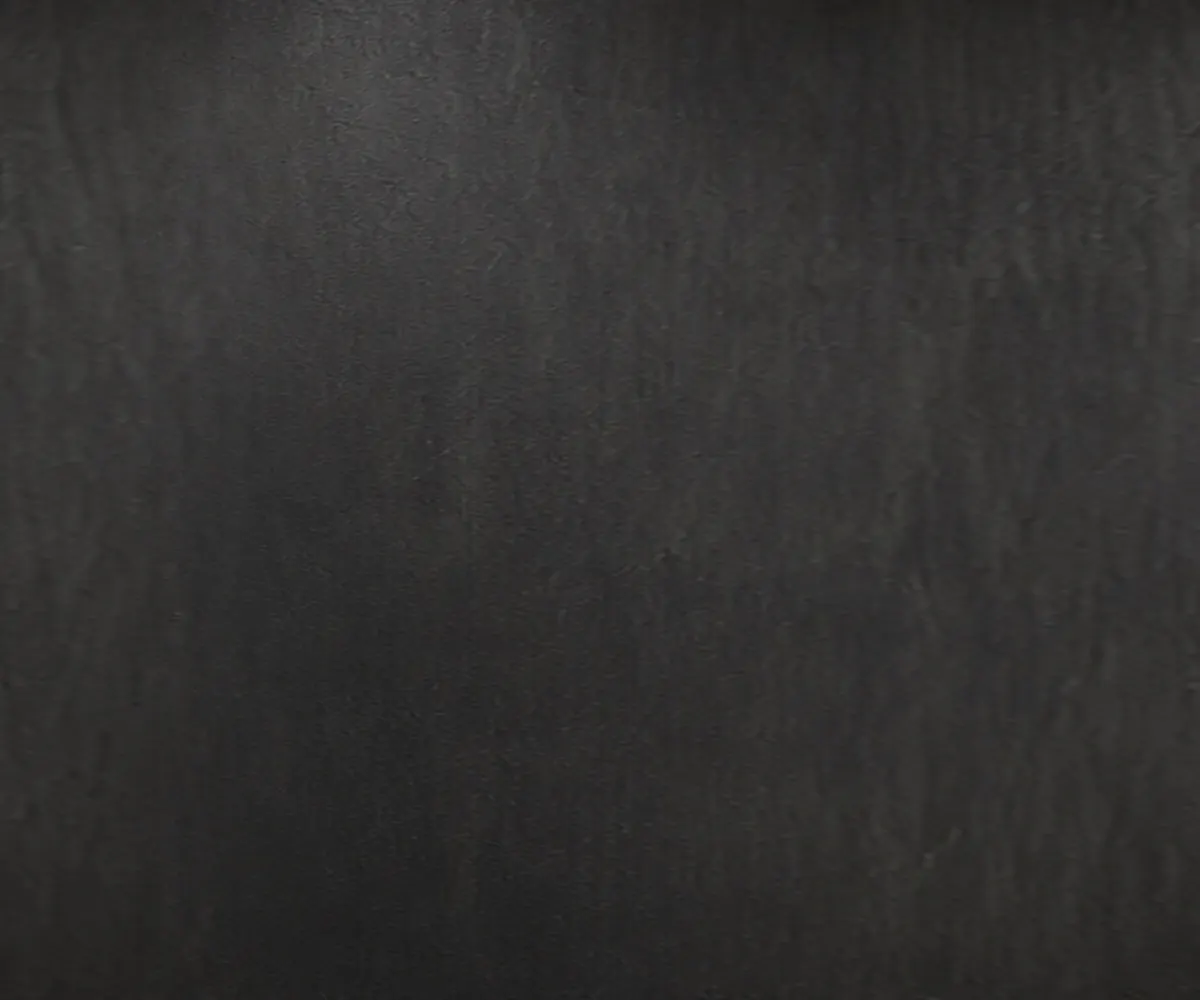
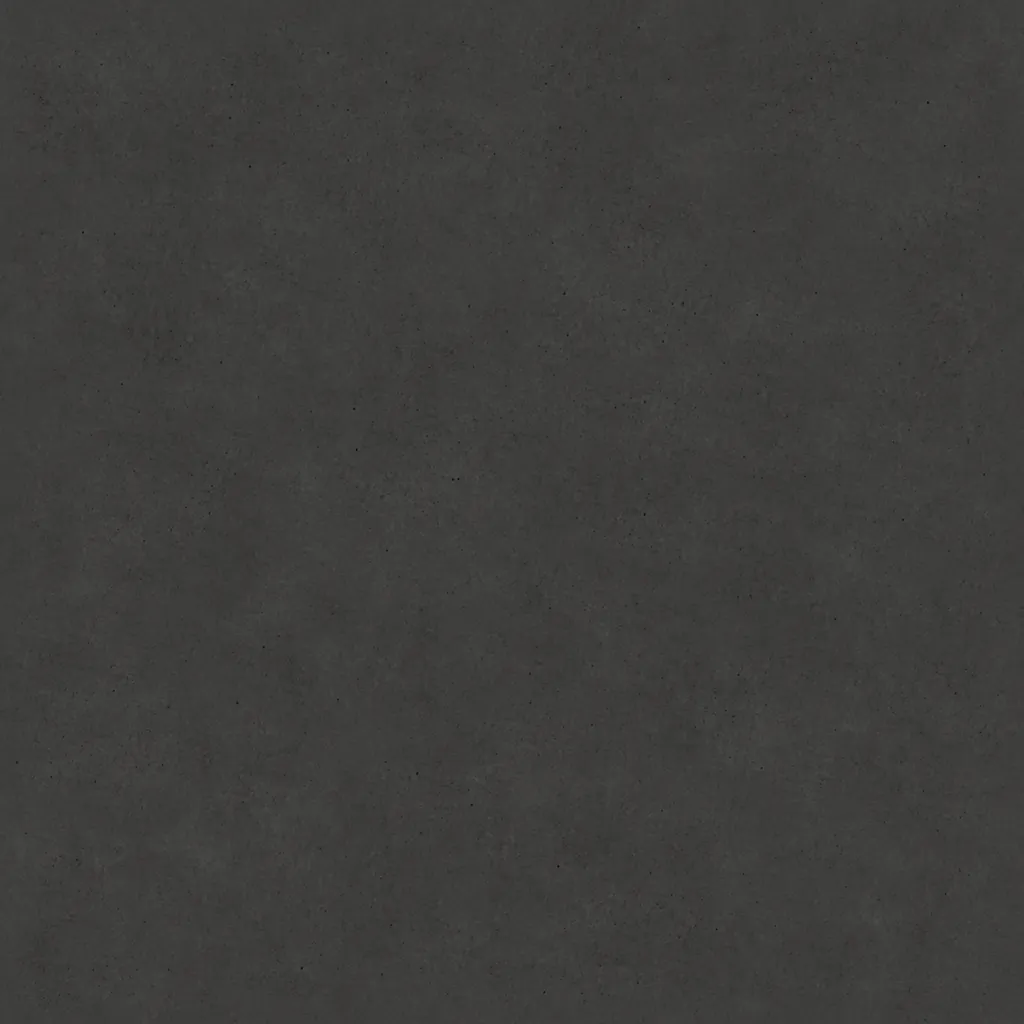
Lenses Code: parede de concreto nova com focos de luz
Claude-Session: https://claude.ai/code/session_01PbqP6xGjMeTk9rpKBFDBKy

diff --git a/lensescode/index.html b/lensescode/index.html
@@ -61,14 +61,14 @@ img,video{display:block;max-width:100%}
 .palco{position:sticky;top:0;height:100vh;height:100svh;overflow:hidden;perspective:var(--persp,900px);perspective-origin:50% 46%;background:radial-gradient(120% 80% at 50% 45%,#1d1c22 0%,var(--grafite) 70%)}
 .mundo{position:absolute;left:50%;top:50%;width:0;height:0;transform-style:preserve-3d;will-change:transform}
 .mundo>*{position:absolute;transform-style:preserve-3d;backface-visibility:hidden}
-.parede{left:calc(var(--prof) / -2);top:calc(var(--alt) / -2);width:var(--prof);height:var(--alt);background:linear-gradient(180deg,rgba(0,0,0,.05),rgba(0,0,0,.35)),url(cena/parede.webp) 0 0 / auto 100% repeat-x #1b1b1c}
+.parede{left:calc(var(--prof) / -2);top:calc(var(--alt) / -2);width:var(--prof);height:var(--alt);background:radial-gradient(130px 62% at 50% 0%,rgba(246,243,238,.13),transparent) 0 0 / 1500px 100% repeat-x,linear-gradient(180deg,rgba(0,0,0,0),rgba(0,0,0,.38)),url(cena/parede.webp) 0 0 / 900px 900px repeat #1b1b1c}
 .parede.esq{transform:translate3d(calc(var(--larg) / -2),0,calc(var(--prof) / -2)) rotateY(90deg)}
 .parede.dir{transform:translate3d(calc(var(--larg) / 2),0,calc(var(--prof) / -2)) rotateY(-90deg)}
 .chao,.teto{left:calc(var(--larg) / -2);top:calc(var(--prof) / -2);width:var(--larg);height:var(--prof)}
 .chao{transform:translate3d(0,calc(var(--alt) / 2),calc(var(--prof) / -2)) rotateX(90deg);background:linear-gradient(180deg,rgba(10,10,12,.25),rgba(10,10,12,.62) 70%,rgba(10,10,12,.75)),url(cena/piso.webp) 50% 0 / var(--placa) var(--placa) repeat #2a2a2a}
 .chao::after{content:"";position:absolute;inset:0;background:linear-gradient(180deg,rgba(168,141,255,.16),rgba(246,243,238,.06) 6%,transparent 22%),radial-gradient(40% 8% at 50% 0%,rgba(246,243,238,.12),transparent);pointer-events:none}
-.teto{transform:translate3d(0,calc(var(--alt) / -2),calc(var(--prof) / -2)) rotateX(-90deg);background:linear-gradient(rgba(0,0,0,.55),rgba(0,0,0,.55)),url(cena/parede.webp) 0 0 / 1400px auto repeat #111}
-.fundo{left:calc(var(--larg) / -2);top:calc(var(--alt) / -2);width:var(--larg);height:var(--alt);background:linear-gradient(rgba(255,255,255,.1),rgba(0,0,0,.15)),url(cena/parede.webp) 50% 0 / auto 100% repeat-x #2b2b2c;transform:translateZ(calc(var(--prof) * -1))}
+.teto{transform:translate3d(0,calc(var(--alt) / -2),calc(var(--prof) / -2)) rotateX(-90deg);background:linear-gradient(rgba(0,0,0,.55),rgba(0,0,0,.55)),url(cena/parede.webp) 0 0 / 900px 900px repeat #111}
+.fundo{left:calc(var(--larg) / -2);top:calc(var(--alt) / -2);width:var(--larg);height:var(--alt);background:linear-gradient(rgba(255,255,255,.1),rgba(0,0,0,.15)),url(cena/parede.webp) 50% 0 / 900px 900px repeat #2b2b2c;transform:translateZ(calc(var(--prof) * -1))}
 /* a porta clássica: moldura parada, folha que abre, luz violeta atrás */
 .porta{width:var(--pw);height:var(--ph);left:calc(var(--pw) / -2);top:calc(var(--ph) / -2);transform:translate3d(0,calc(var(--alt) / 2 - var(--ph) / 2),calc(var(--prof) * -1 + 3px))}
 .porta>*{position:absolute}
